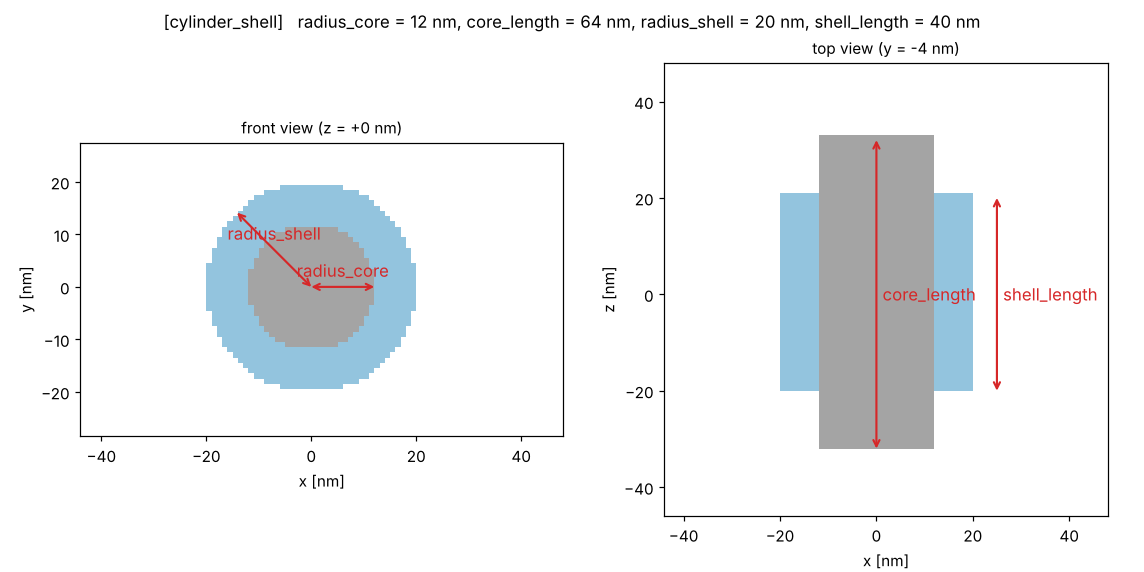
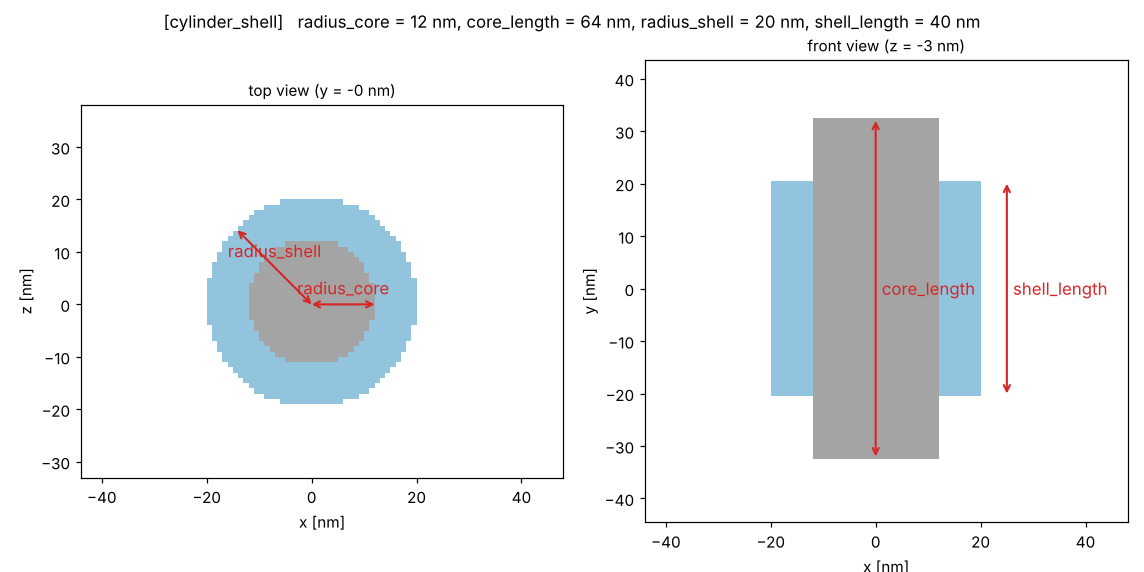
fix orientation of cylinder shell geometry

diff --git a/docs/geometry/make_shape_figures.py b/docs/geometry/make_shape_figures.py
@@ -213,11 +213,11 @@ SHAPES = {
     "cylinder": dict(p=dict(radius=14, length=60), views=("xy", "xz"),
                      dims=lambda p: [("xy", "radius", (0, 0), (p["radius"], 0)),
                                      ("xz", "length", (p["radius"] + 5, -p["length"] / 2), (p["radius"] + 5, p["length"] / 2))]),
-    "cylinder_shell": dict(p=dict(radius_core=12, core_length=64, radius_shell=20, shell_length=40), geometry="shell_material = shell\n[material.shell]\nmodel = dielectric\nn = 1.5", views=("xy", "xz"), centre_cut=("xy",),
-                           dims=lambda p: [("xy", "radius_core", (0, 0), (p["radius_core"], 0)),
-                                           ("xy", "radius_shell", (0, 0), (-0.7071 * p["radius_shell"], 0.7071 * p["radius_shell"])),
-                                           ("xz", "core_length", (0, -p["core_length"] / 2), (0, p["core_length"] / 2)),
-                                           ("xz", "shell_length", (p["radius_shell"] + 5, -p["shell_length"] / 2), (p["radius_shell"] + 5, p["shell_length"] / 2))]),
+    "cylinder_shell": dict(p=dict(radius_core=12, core_length=64, radius_shell=20, shell_length=40), geometry="shell_material = shell\n[material.shell]\nmodel = dielectric\nn = 1.5", ny=88, views=("xz", "xy"), centre_cut=("xz",),
+                           dims=lambda p: [("xz", "radius_core", (0, 0), (p["radius_core"], 0)),
+                                           ("xz", "radius_shell", (0, 0), (-0.7071 * p["radius_shell"], 0.7071 * p["radius_shell"])),
+                                           ("xy", "core_length", (0, -p["core_length"] / 2), (0, p["core_length"] / 2)),
+                                           ("xy", "shell_length", (p["radius_shell"] + 5, -p["shell_length"] / 2), (p["radius_shell"] + 5, p["shell_length"] / 2))]),
     "ellipse": dict(p=dict(radius_x=30, radius_z=16, thickness=10, rotation=25),
                     dims=lambda p: [("xz", "radius_x", (0, 0), (p["radius_x"] * np.cos(np.radians(p["rotation"])), p["radius_x"] * np.sin(np.radians(p["rotation"])))),
                                     ("xz", "radius_z", (0, 0), (-p["radius_z"] * np.sin(np.radians(p["rotation"])), p["radius_z"] * np.cos(np.radians(p["rotation"]))))]),

diff --git a/src/config/sim_config.cc b/src/config/sim_config.cc
@@ -85,10 +85,10 @@ const std::vector<ShapeSection> SHAPE_SECTIONS = {
 	{"sphere_quadrumer", {{"radius", &G::width, "[m]"}, {"spacing", &G::length, "[m] centre to centre, along z"}}},
 	{"cylinder", {{"radius", &G::width, "[m] cylinder along z"}, {"length", &G::length, "[m] along z; 0 = through the whole domain"}}},
 	{"cylinder_3d", {{"radius", &G::width, "[m] disc in the x-z plane"}, {"height", &G::length, "[m] along y"}}},
-	{"cylinder_shell", {{"radius_core", &G::width, "[m] radius of the core; both cylinders are along z, on the same axis"},
-						{"core_length", &G::length, "[m] of the core along z; 0 = through the whole domain"},
+	{"cylinder_shell", {{"radius_core", &G::width, "[m] radius of the core; both cylinders are along y, on the same axis"},
+						{"core_length", &G::length, "[m] of the core along y; 0 = through the whole domain"},
 						{"radius_shell", &G::length_2, "[m] outer radius of the shell ([geometry] shell_material); the core is drawn over it"},
-						{"shell_length", &G::arm_length, "[m] of the shell along z; 0 = through the whole domain; shorter than the core leaves the core ends bare"}}},
+						{"shell_length", &G::arm_length, "[m] of the shell along y; 0 = through the whole domain; shorter than the core leaves the core ends bare"}}},
 	{"ellipse", {{"radius_x", &G::width, "[m] semi-axis along x"}, {"radius_z", &G::length, "[m] semi-axis along z"}, {"thickness", &G::thickness, "[m] along y"},
 				 {"rotation", &G::rotation, "[deg] positive turns counter-clockwise in the top view (x right, z up)"}}},
 	{"hole", {{"radius", &G::width, "[m] of the hole"}, {"thickness", &G::thickness, "[m] of the film that fills the x-z plane, along y"}}},

diff --git a/src/geometry/basic.cc b/src/geometry/basic.cc
@@ -496,7 +496,7 @@ bool fdtd::geometry::create_cylinder(const int &centerx, const int &centery, con
 }
 
 /**
- * @brief Two coaxial cylinders along z: the shell (radius_shell, shell_length) first, the core (radius_core, core_length) over it
+ * @brief Two coaxial cylinders along y, the propagation axis: the shell (radius_shell, shell_length) first, the core (radius_core, core_length) over it
  * @image html cylinder_shell.png "[cylinder_shell] keys on the mesh, docs/geometry/Shapes.md"
  * The two lengths are independent: a shell longer than the core closes the ends, a shorter one leaves the
  * ends of the core bare. A length of 0 runs that cylinder through the whole domain.
@@ -510,8 +510,10 @@ bool fdtd::geometry::create_cylinder_shell(int centerx, int centery, int centerz
 {
 	if (!sc.draw)
 		return true;
+	// a disc in the x-z plane extruded along y; length 0 spans the domain, as cylinder_z
 	auto cylinder = [](double radius, double length) {
-		return length > 0 ? geom::cylinder_z(0, 0, radius, -0.5 * length, 0.5 * length) : geom::cylinder_z(0, 0, radius);
+		const double half = length > 0 ? 0.5 * length : 1e3;
+		return radius > 0 ? geom::extrude(geom::circle(0, 0, radius), -half, half) : geom::Solid();
 	};
 	// in this order: the core overwrites the shell where they overlap
 	render_parts({{cylinder(radius_shell, shell_length), shell_index}, {cylinder(radius_core, core_length), index}}, centerx, centery, centerz);

diff --git a/docs/dev/Roadmap.md b/docs/dev/Roadmap.md
@@ -566,6 +566,10 @@ where it is used), `grid.inv_d*` (`Lattice::inv_d`), `source.raised_cosine` (wri
 | Magnetic Lorentz background | `geometry.first/middle/last_medium = 400` segfaults (pre-existing; same in the build before the E-scan merge). As a structure it runs. |
 | Changed 2026-11-19 | Materials by name, the entry above. Changes of results, none in the suites: (1) the ITO Drude materials take the plasma frequency from the carrier density with the solver's electron charge and mass, `E0`, `ME`; the table had its own literals, so the plasma frequency moves by 5e-10 relative. (2) The two-temperature plasma frequency starts from the heated material's own value; the table took, for films under 50 nm, slot 17, which is empty, so the offset was the negative of the temperature fit. (3) A material with a tensor is nonlinear in every shape and every part it fills; the table made the structure nonlinear for a list of shapes only, and the `bulk` mode made a cube of the layers nonlinear, which is gone: give the layer's material a tensor. (4) `[electrons] diffusion` was given to codes 100, 101, 300 and 304 only; it is a key of each material. (5) A dispersive material used only by a block, the shell or an anapole fill had no state allocated before; every slot has. (6) `[nonlinear] graphene_optimization` no longer overrides the indices of the dielectrics 1, 2 and 3. |
 | Open 2026-11-19 | `refractive_index` and `complex_permittivity` of a Lorentz material differ: the first has 2 i omega gamma in the denominator, the second i omega gamma. Both kept as they were, `src/materials/permittivity.cc`; one of them is wrong. The hydrodynamic, Drude-Lorentz and magnetic Lorentz models have no permittivity formula there and read 0, so a medium of those models gives the sources and the Q normalisation an index of 0. |
+| Changed 2026-11-21 | `cylinder_shell` is drawn along y, the plane-wave propagation axis; it was along z. Same keys, `core_length` and `shell_length` now along y. Results of cylinder_shell runs change; no suite case uses the shape. |
+| Open 2026-11-20 | Nonlinear dielectric with off-diagonal tensor entries, unconfirmed from reading the code: a non-dispersive slot takes the exact per-cell solve only when its chi2 or chi3 is diagonal-only (`iso_chi_2`, `iso_chi_3`, set in `src/materials/slots.cc`); `nonlinear::update_field` and `update_polarisation` take only dispersive slots (`nonlinear_model`). A dielectric with any off-diagonal entry, an isotropic chi3 for example, then falls through to the linear branch of `src/update/update_e.cc` and its nonlinearity is dropped without a message. Confirm with a test; route it through the field update or reject it in `fdtd check`. The old name "ISO_CHI3, isotropic (has only diagonal nonzero elements)" means diagonal-only, not isotropic. |
+| Open 2026-11-20 | `[nonlinear] update = polarization` (pre-existing, same in the baseline `Pxyz_NL_UpdateScan`): `P -= P_NL` on the stored ADE state every step acts as a force -P_NL / dt^2 in the second-order recursion, so the effective nonlinear polarisation is P_NL / ((Omega0^2 - Omega^2) dt^2). Drude has no restoring term: gain 1 / (Omega dt)^2, 4.0e4 at 1.26 um with dx = 2 nm (checked on the recursion), so an ITO chi3 of 2.3e-18 blows up near 2e6 V/m (cylinder_shell anapole run, NaN at step 10800; reproduced at 4 nm, also with the poles fixed and with a 100x weaker pulse; `update = field` stable). Modified Lorentz (`P_cp[0] -= P_NL / dt`) gets about 1 / (Omega0 dt)^2, 470 for the Si3N4 UV pole. Grows as 1/dt^2, so it does not converge. Fix: inject (Omega0 dt)^2 P_NL for Lorentz poles, reject Drude-type slots. Both updates take the same `polarisation_term` and a constant chi3: neither is dispersive. |
+| Open 2026-11-20 | Run tooling from the same run: (1) no check for non-finite fields, the run went on 19000 steps after the NaN; stop at the first one in the trace. (2) A catalog file `<name>.ini` with sections of another material (`[material.silver_d2cp.pole.1]` in `ito_d2cp.ini`) loads without them and without a message; make it an error. (3) `fdtd memory` reports "dispersive state written outside its material box" on 4x4x4 (`examples/anapole.ini`): lazy mode leaves the shared zero row of a boxed array unfilled and glibc can return reused memory for it; zero that row always. False alarm, real runs zero every array. |
 | Magnetic Lorentz outside the TF/SF box | Neither its update nor the E-face pass adds CPML psi or TF/SF terms for it (Drude and Lorentz get theirs from the E-face pass and `sources::tfsf_e`). Only usable inside the TF/SF box until it takes the boundary callback. |
 | Bloch / constant transverse wavenumber | Removed 2026-11-07 (it needed complex fields and the config already rejected it): `[grid] bloch`, the `[bloch]` section, `PBC_CTW`, the two-sweep H/E injection, `Setup_PBC_CTW`, the Bloch phase factors and 20 globals; also the always-true `forward_pulse` and its backward-pulse branches. Plain periodic x/z boundaries are unchanged. To be rebuilt later with complex fields (§2.2). |
 | `center_freq` | Holds a wavelength (m). Rename it when the sources move (§3 step 5). |

diff --git a/docs/geometry/Shapes.md b/docs/geometry/Shapes.md
@@ -74,10 +74,10 @@ along y. Setting a key in the section of another shape is an error.
 
 | key | meaning |
 |---|---|
-| `radius_core` | [m] radius of the core; both cylinders are along z, on the same axis |
-| `core_length` | [m] of the core along z; 0 = through the whole domain |
+| `radius_core` | [m] radius of the core; both cylinders are along y, on the same axis |
+| `core_length` | [m] of the core along y; 0 = through the whole domain |
 | `radius_shell` | [m] outer radius of the shell ([geometry] shell_material); the core is drawn over it |
-| `shell_length` | [m] of the shell along z; 0 = through the whole domain; shorter than the core leaves the core ends bare |
+| `shell_length` | [m] of the shell along y; 0 = through the whole domain; shorter than the core leaves the core ends bare |
 
 ## ellipse
 
@@ -358,8 +358,8 @@ along y. Setting a key in the section of another shape is an error.
 | `gap_length` | [m] gap between the lobes, along the lobe axis |
 | `gap_width` | [m] gap across the lobe axis |
 | `rotation` | [deg] in-plane rotation, x-z |
-| `aperture_material` | fill of the whole aperture, lobes and gap; -1 = background |
-| `gap_material` | fill of the gap alone; -1 = as the rest of the aperture |
+| `aperture_material` | fill of the whole aperture, lobes and gap, a material name; unset = background |
+| `gap_material` | fill of the gap alone, a material name; unset = as the rest of the aperture |
 | `lobe_points` | polygon vertices per lobe edge |
 
 ## two_films_spacer
